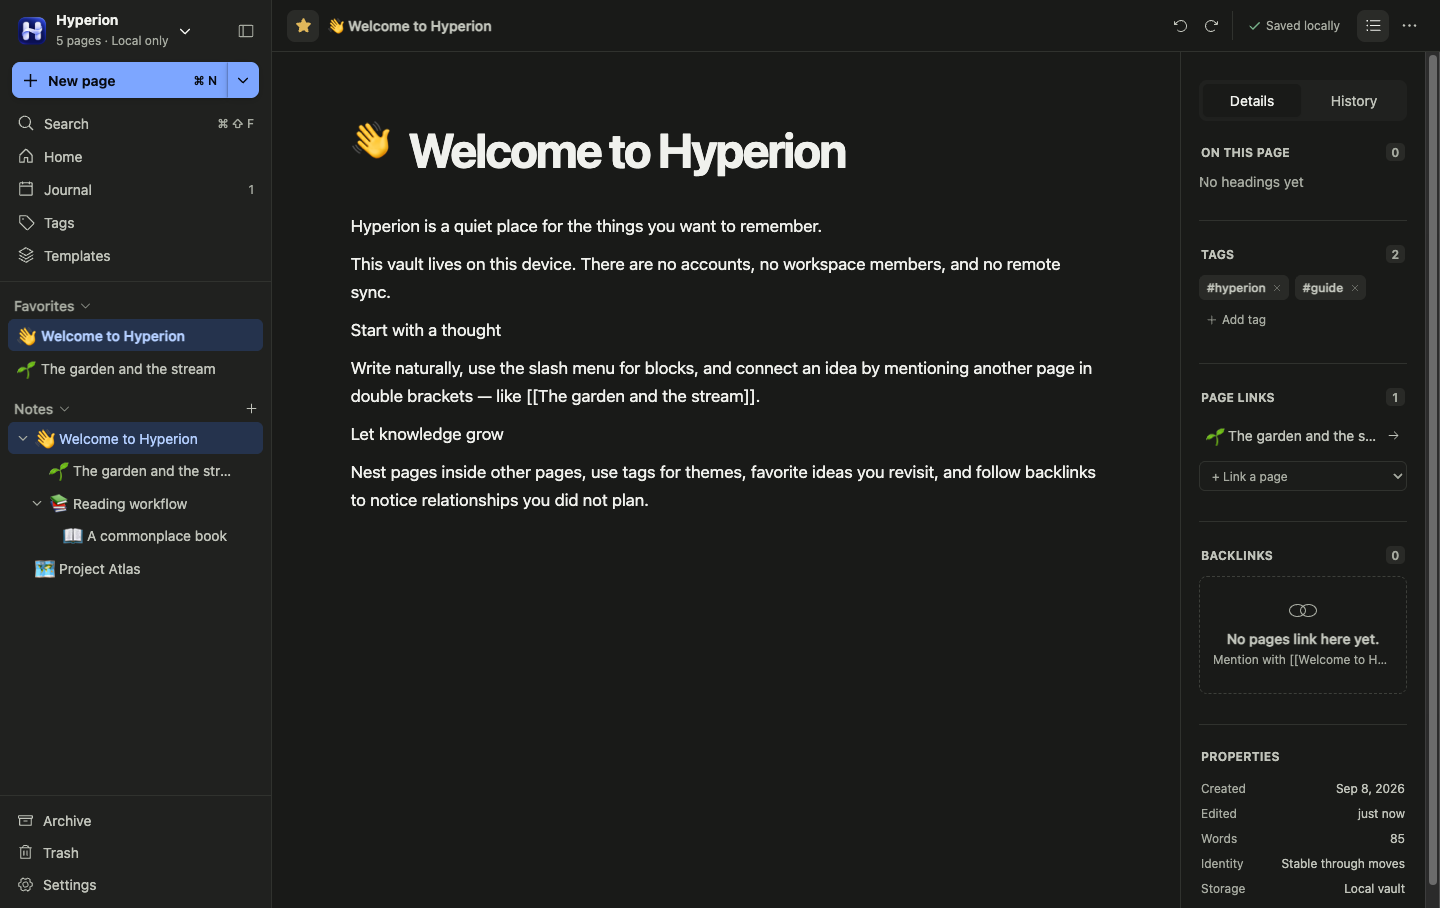
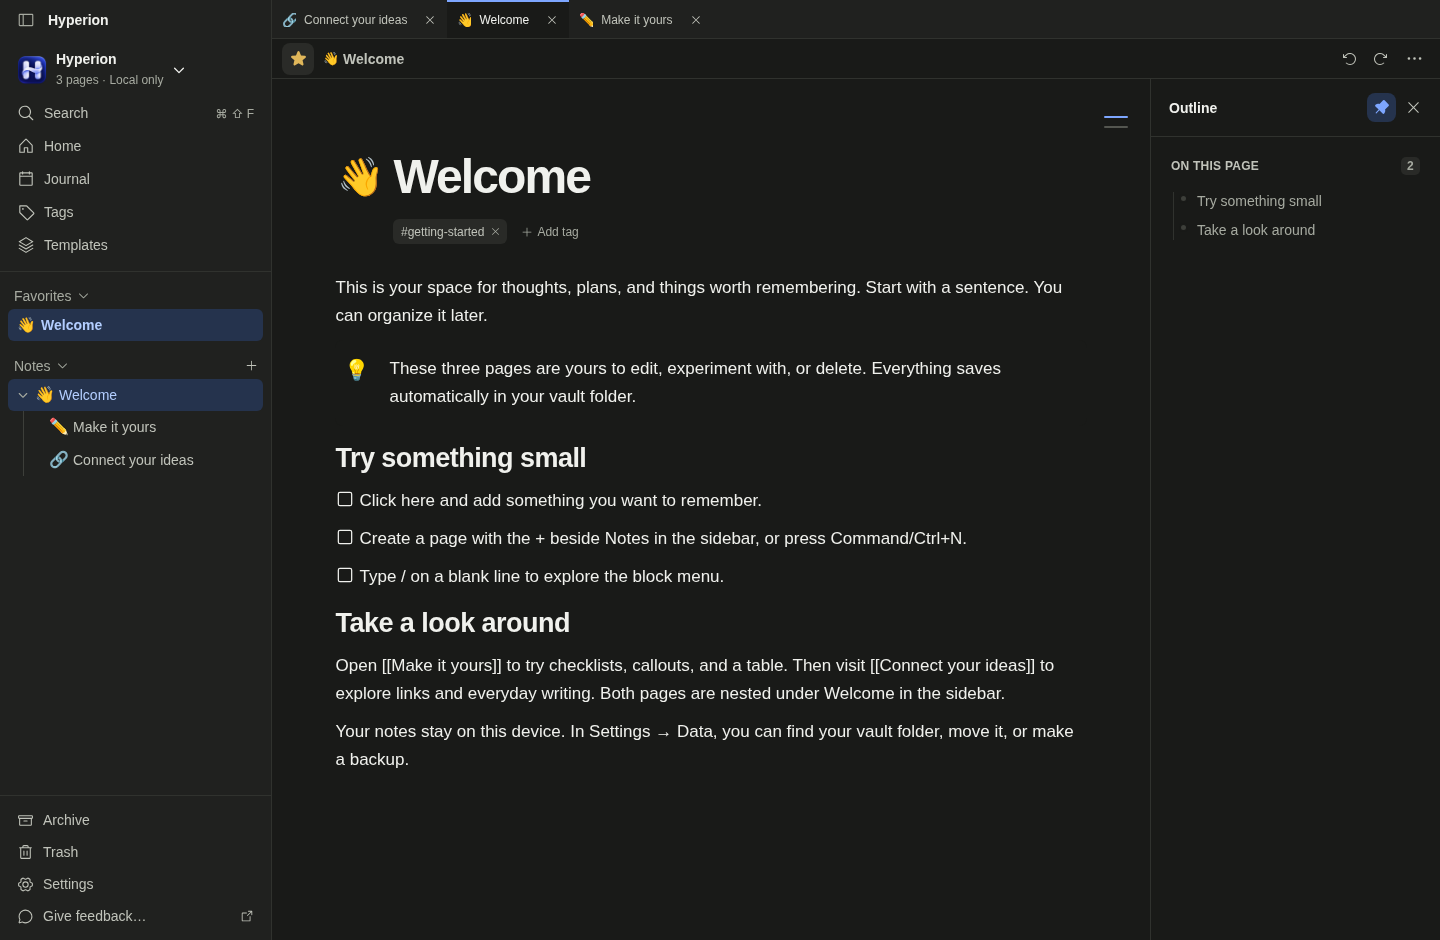
docs: prepare Hyperion 0.4.0 release (#55)

diff --git a/app/lib/starter-vault.ts b/app/lib/starter-vault.ts
@@ -31,7 +31,7 @@ export function makeStarterPages(vaultId: string): StarterPage[] {
         },
         {
           type: "todo",
-          text: "Create a page with the New page button in the sidebar.",
+          text: "Create a page with the + beside Notes in the sidebar, or press Command/Ctrl+N.",
         },
         {
           type: "todo",

diff --git a/docs/releases/0.4.0.md b/docs/releases/0.4.0.md
@@ -1,0 +1,263 @@
+# Hyperion 0.4.0 release preparation
+
+Prepared on 2026-10-08. This is the review handoff for the proposed release;
+0.4.0 has not been versioned or published.
+
+## Candidate and version
+
+- Published baseline: [v0.3.0](https://github.com/alextac98/hyperion/releases/tag/v0.3.0),
+  published 2026-09-23, commit `a790bbd6c8c54e1d717b028a224d59eff8d36751`.
+  The GitHub latest-release endpoint and release list agree on this baseline.
+- Candidate: `e3429479e0306896e124842a75b5e14756ba29f4`, matching fetched
+  `origin/main` when preparation began. The baseline comparison contains 13
+  commits and 137 changed files.
+- Preparation branch: `t3code/prepare-0-4-0-release`, targeting `main`.
+  No open preparation PR existed when checked.
+- Preparation changes beyond the candidate SHA: this report; a README correction
+  for the removed template picker; the starter guide's correction for the removed
+  sidebar New page button; a refreshed README screenshot and description; and
+  release-skill instructions to refresh that screenshot after significant UI
+  changes. The guide change affects newly created starter pages and does not
+  rewrite existing pages.
+- Published and current package versions are both `0.3.0`. Proposed version:
+  **0.4.0**, using **Version → minor** once the preparation is reviewed and merged.
+  No duplicate/newer published version or existing `v0.4.0` tag was found.
+  No version file has been edited and no workflow has been dispatched.
+
+For this `0.x` release, use minor increments for feature sets and user workflow
+changes, and patches for compatible fixes. This choice does not promise that
+different `0.x` binaries are interchangeable. The new features justify the minor
+bump, and the workflow changes and downgrade limits are called out below.
+
+## Release notes
+
+### Features
+
+- **Tabs and split panes:** open pages, templates, and library views in tabs;
+  reorder them, split the workspace, move tabs between panes, and drag a sidebar
+  page into a pane. Restore the primary workspace's tabs and layout per vault,
+  retaining editor state and independent scrolling. Command/Ctrl+T opens Home,
+  Command/Ctrl+W closes a tab, Ctrl+Tab switches tabs, and F6 switches panes.
+  [#34](https://github.com/alextac98/hyperion/pull/34),
+  [#35](https://github.com/alextac98/hyperion/pull/35).
+- **Native page windows:** drag a page or template tab outside the window, or
+  choose Move to new window. Move it back to the primary or another page window
+  through a tab strip, or use Move to main window. Edits and titles synchronize
+  across windows. Each page window stays with its original vault; closing the
+  primary saves and closes its page windows.
+  [#51](https://github.com/alextac98/hyperion/pull/51).
+- **Meeting blocks:** insert `/meeting` for rich notes, a date and title, microphone
+  recording or audio import, playback/download, and pasted or imported transcripts.
+  Recordings persist in chunks and survive page navigation; interrupted recordings
+  expose their saved audio. Configure the microphone and default meeting tab in
+  Settings → Blocks. Automatic transcription and AI summaries are unavailable.
+  [#37](https://github.com/alextac98/hyperion/pull/37).
+- **Editable columns and block actions:** insert `/columns` for two to four columns
+  containing ordinary rich blocks. Reorder columns with the grip, action menu, or
+  Alt+Left/Right. Remove a column while keeping its content, or unwrap the layout
+  in reading order. The block grip offers Move up/down and Delete block, with
+  keyboard navigation and undo/redo. Narrow layouts stack columns.
+  [#46](https://github.com/alextac98/hyperion/pull/46),
+  [#50](https://github.com/alextac98/hyperion/pull/50).
+- **Page context and toolbars:** each tab has its own toolbar; tags sit under the
+  title. Open Outline, Connections, Version history, or Page properties from the
+  page menu, and pin context across page changes. The mini outline follows the
+  current heading and supports hover or keyboard navigation. Native controls and
+  sidebar controls share the themed header.
+  [#40](https://github.com/alextac98/hyperion/pull/40),
+  [#54](https://github.com/alextac98/hyperion/pull/54).
+- **Feedback shortcuts:** open a GitHub report from setup, the sidebar, or the
+  page context menu. The report includes app version, OS, and architecture;
+  submitting a public issue requires a GitHub account.
+  [#52](https://github.com/alextac98/hyperion/pull/52).
+
+### Fixes
+
+- Route copy, cut, and paste to the focused editor or native field, preserving
+  clipboard behavior across retained tabs and read-only history.
+  [#47](https://github.com/alextac98/hyperion/pull/47).
+- Keep the block grip stationary on hover and dismiss its action menu on dragging.
+  Preserve nested content, formatting, assets, and undo boundaries when moving or
+  unwrapping blocks. [#46](https://github.com/alextac98/hyperion/pull/46),
+  [#50](https://github.com/alextac98/hyperion/pull/50).
+- Select a restored page or copy after reload while preserving other tabs and pane
+  layouts. Keep rename aliases and vault menus synchronized across windows, and
+  retain the source tab when transfer or destination startup fails.
+  [#50](https://github.com/alextac98/hyperion/pull/50),
+  [#51](https://github.com/alextac98/hyperion/pull/51).
+- Align the page icon with responsive titles, stabilize fractional-size workspace
+  layout at non-default zoom, and defer BlockSuite virtual padding updates to avoid
+  resize loops. [#33](https://github.com/alextac98/hyperion/pull/33),
+  [#51](https://github.com/alextac98/hyperion/pull/51),
+  [#54](https://github.com/alextac98/hyperion/pull/54).
+
+### Compatibility and upgrade changes
+
+- The always-open details sidebar and its Settings toggle have been replaced by
+  optional page context. Use the page menu and Pin page context to retain a drawer.
+  Existing `showDetails` preference data remains in exports for compatibility.
+- The sidebar New page button and separate template picker have been removed.
+  Use **+ beside Notes**, **Command/Ctrl+N**, or a page's child-page action to create
+  a page. Use the Templates view to create from a chosen template; default page and
+  journal templates remain configurable in Settings.
+- Page-window sessions survive window reload; a full app restart restores the
+  primary session and does not recreate detached windows.
+- Permanent deletion, moving vault storage, and replacing a page in place require
+  closing other windows showing that vault. Failed saves keep windows open.
+- No SQLite schema upgrade is introduced relative to 0.3.0: database version stays
+  **4**, document version **1**, and portable bundle version **9**. Older supported
+  databases still follow the existing migrations. There is no new content removal
+  in this release. Legacy prototype meeting notes are converted to ordinary rich
+  note children, preserving their literal text and existing children; regression
+  cases verify idempotence and leave invalid/future blocks intact.
+
+### Internal and development changes
+
+Development profiles and data now live in each worktree's `.hyperion-dev/`, and a
+development-only blueprint identifies the UI. Previous global development folders
+remain in place and are not automatically adopted. `pnpm dev:reset` removes the
+current worktree's development state after its instances stop. Browser development
+supports configured exact origins and optimizes the clipboard compressor.
+The lockfile adds Dockview and a BlockSuite virtual-padding patch; existing Electron,
+BlockSuite, SQLite schema, installer naming, and publication workflows are retained.
+PR CI now includes the full desktop integration and native window suites with
+failure screenshots. [#38](https://github.com/alextac98/hyperion/pull/38),
+[#43](https://github.com/alextac98/hyperion/pull/43),
+[#47](https://github.com/alextac98/hyperion/pull/47),
+[#50](https://github.com/alextac98/hyperion/pull/50),
+[#54](https://github.com/alextac98/hyperion/pull/54).
+
+## Validation
+
+Local environment: Fedora 43, Linux x64, Node `22.22.2` (within the manifest's
+supported range), pnpm `12.4.0`, Electron `43.4.0`, and an isolated Xvfb display
+at 2300×1080×24. CI uses Ubuntu 24.04 and Node `24.21.0`; it must validate the
+eventual preparation and version commits. All desktop tests use synthetic fixtures
+or temporary profiles and data directories. No personal vault was opened.
+
+| Command/check                                                                                                        | Result                                                                                                                                                                                                                                   |
+| -------------------------------------------------------------------------------------------------------------------- | ---------------------------------------------------------------------------------------------------------------------------------------------------------------------------------------------------------------------------------------- |
+| `pnpm install --frozen-lockfile`                                                                                     | Passed with the pinned package manager; no lockfile changes.                                                                                                                                                                             |
+| `pnpm lint`                                                                                                          | Passed on the original candidate and again after the guidance corrections.                                                                                                                                                               |
+| `pnpm test`                                                                                                          | Passed on the original candidate and final rerun: 45 app + 58 desktop/data + 64 other tests, 167 total each time, zero failures or skips.                                                                                                |
+| `pnpm check:desktop`                                                                                                 | Passed on the original candidate and final rerun.                                                                                                                                                                                        |
+| `DISPLAY=:0 pnpm test:integration`                                                                                   | Passed: runner failure regression, screenshots, editor save/history/restore/import, built and development clipboard, blocks, block actions, columns, meetings, vault setup, and feedback.                                                |
+| `DISPLAY=:0 node scripts/run-electron-test.mjs tests/window-smoke.mjs`                                               | Passed: detachment/return, transfers and cancellation, concurrent edits, title/alias synchronization, vault/backup isolation, rejected destructive operations, failed-save/acknowledgement handling, and save on primary close/app quit. |
+| `DISPLAY=:0 pnpm test:updates`                                                                                       | Passed: available, progress, error, retry, ready, and Settings UI.                                                                                                                                                                       |
+| `DISPLAY=:0 pnpm test:development`                                                                                   | Passed: two integration tests for three isolated worktrees and launcher shutdown.                                                                                                                                                        |
+| `node scripts/build-release.mjs x64`                                                                                 | Passed originally and after the final rebuild: Linux x64 AppImage and packaged runtime dependency check.                                                                                                                                 |
+| Packaged 0.3.0 → candidate → reopen                                                                                  | Passed with disposable data, then passed again with the rebuilt final candidate.                                                                                                                                                         |
+| `pnpm exec prettier --check README.md docs/releases/0.4.0.md .agents/skills/release/SKILL.md` and `git diff --check` | Passed after formatting the report and skill update.                                                                                                                                                                                     |
+
+The migration suite is included in the 58 desktop/data tests, and is not counted
+twice. Its 13 cases preserve the frozen prototype-v0, desktop-v1, and desktop-v4
+contracts and fixtures. They exercise skipped-version upgrades, rich page/template
+documents, hierarchy/links/preferences, blob bytes, original encoded history,
+complete pre-migration backups, integrity and foreign keys, idempotent reopening,
+late failure rollback and retry, backup failure before writes, and rejection of
+newer schemas. Version-2/3 derived cases cover the existing retirement/date
+transformations and corruption failure paths.
+
+Focused block tests cover meeting-note conversion, unknown/future content,
+recording assets and history, bounded audio transfers and failed-chunk retry.
+Native meeting tests exercise real MediaRecorder with synthetic microphone input,
+audio/transcript imports, playback/seek, rich editing, navigation, reopening and
+interrupted-recording recovery. Native column tests cover editing, preserving rich
+content/IDs, removal and unwrapping, undo/redo, drag boundaries and read-only history.
+
+For the packaged experiment, the published Linux 0.3.0 AppImage was downloaded
+through GitHub and matched its published SHA-256:
[1 lines of base64/hex data omitted]
+Its extracted executable created a synthetic vault containing formatted Unicode
+text, an attachment, a named revision and a backup, then quit through the app's
+save barrier. The candidate's packaged executable opened the same disposable
+profile/data, exported it, quit, and reopened. Comparisons retained original
+records and preferences, decoded rich documents, attachment bytes/mappings and
+original revision payloads. Integrity, foreign-key and schema checks passed on
+the live database and six backups. Both binaries identify as packaged apps.
+
+The local candidate package intentionally still reports **0.3.0** because Version
+has not run. This experiment validates candidate application code and data
+compatibility; it does not validate final 0.4.0 installer metadata or updater
+delivery. The test driver uses the Electron main-process inspector and temporary
+profile/config/cache/data directories, without a live user profile.
+
+The final locally built `Hyperion-linux-x86_64.AppImage` has SHA-256
[1 lines of base64/hex data omitted]
+It includes the recorded candidate SHA plus the starter-guide correction.
+
+Local logs, driver and disposable exports are under
+`/tmp/hyperion-release-0.4.0-nmJURm/`. These are session evidence, not published
+release assets. The guide correction changes one instructional string;
+the final required quality gate and package/upgrade reruns all passed. Other
+native results apply to the candidate SHA above. A host check before opening the
+preparation PR still found `main` at that SHA.
+
+The README screenshot was captured from that final packaged Linux x64 candidate
+at 1440 × 940 in dark mode, using a separate disposable profile and the three
+default starter pages. It shows the current workspace tabs, sidebar, page toolbar,
+and pinned outline. The saved PNG was visually inspected for readable text and
+the absence of transient menus, dialogs, loading states, and errors. The README
+description now matches the image, and the release skill requires this comparison
+and refresh when significant UI changes make the screenshot outdated.
+
+## Risks, recovery and remaining checks
+
+The main affected paths are [window lifecycle and vault scoping](../../electron/main.ts),
+[multi-window document updates](../../app/platform/sqlite-editor-storage.ts),
+[save/import barriers](../../app/lib/data-operations.ts),
+[meeting recording](../../app/lib/meeting-recording.ts),
+[column transforms](../../app/editor/blocks/columns.ts), and the
+[macOS microphone packaging metadata](../../electron-builder.yml).
+The tests above cover ordinary and injected failure paths, and do not establish
+that every failure is impossible.
+
+- No unresolved application test failure was found. The expected error messages
+  in native tests come from deliberate failed saves, unavailable folders/browser
+  handoffs, and rejected IPC/operations.
+- Linux x64 packaging and its extracted executable were exercised locally.
+  macOS arm64, Windows x64 and Linux arm64 builds/launches were not available on
+  this machine. macOS microphone permission prompts, physical microphone devices,
+  signing/notarization and OS compositor behavior remain platform checks.
+- The update preview verifies simulated UI/state only. Real downloads, signatures,
+  differential updates, binary replacement and restart into the final 0.4.0 build
+  remain untested. Extracted AppImage execution also does not exercise FUSE mounting
+  or desktop installer integration.
+- Power loss, full-disk storage failures, and all possible block types were not
+  simulated. New meeting/column content has preservation coverage, but this report
+  does not certify every concurrent edit/import/recording combination.
+
+Before upgrading, create a backup from Settings → Data and keep a complete vault
+export where practical. Older-schema startup makes a verified pre-migration backup
+before conversion, and failures roll back the transaction. An existing schema-4
+vault does not receive a new migration backup solely for 0.4.0; startup's automatic
+backups and explicit backups are the recovery paths. Restore a verified backup
+into a separate folder through Settings → Data, preserving the current vault.
+History can restore a page as a copy and recover deleted attachment bytes.
+
+The unchanged schema number is not a downgrade guarantee: 0.3.0 lacks the new
+block editors and workspace behavior. Downgrade and preservation of all new
+content by older binaries were not tested. To return to pre-upgrade state, retain
+the current vault and restore a verified pre-upgrade backup into a separate folder
+with an appropriate older binary. Do not delete the current vault as rollback.
+
+## Release handoff
+
+Proposed PR title: **docs: prepare Hyperion 0.4.0 release**.
+The PR body should use this report's candidate, version, release notes, validation,
+risks and handoff. The reviewable diff includes the report, two guidance
+corrections, refreshed screenshot and description, and release-skill update.
+
+1. Review and merge the preparation PR through the normal repository process. Check
+   both PR jobs on its final commit. Review and appropriately test any intervening
+   application changes; this evidence is tied to the recorded candidate.
+2. When version preparation is requested, run **Version** on `main` with **minor**
+   exactly once, after checking the package is still 0.3.0. It prepares/tests/pushes
+   the 0.4.0 version commit. If it is already 0.4.0, do not bump again.
+3. Check the final `main` SHA, version and successful checks. When publication is
+   requested, run **Release** on `main`; record its captured SHA and wait for quality,
+   all four platform builds and publication. Never hand-create a release/tag.
+4. Verify published installer links, checksums and update manifests, and smoke-test
+   the published installers and previous-release upgrades with disposable data.
+   Confirm macOS microphone permissions and real updater installation on supported
+   platforms. Follow [the release guide](../developer/release.md) for failed runs.

diff --git a/.agents/skills/release/SKILL.md b/.agents/skills/release/SKILL.md
@@ -43,6 +43,7 @@ current version numbers, schema versions, or platform lists into this skill.
   `pnpm test` already includes the migration suite through `test:desktop`.
   Use `pnpm test:migrations` for targeted diagnosis or reruns after migration
   changes, rather than counting it as independent extra coverage.
+
 - Inspect migration assertions as well as their exit status. Verify older
   supported schemas and skipped-version upgrades, preservation of documents,
   attachments and history, pre-upgrade backups, integrity/foreign-key checks,
@@ -78,6 +79,16 @@ just commit titles. Produce user-facing release notes grouped into features,
 fixes, breaking changes, and upgrade/data changes as applicable. Separate
 internal maintenance from user-visible behavior. Cite relevant PRs or files,
 explain removed behavior and required user actions, and identify known issues.
+
+Compare the README screenshot with the candidate's interface. When significant
+UI changes make it outdated (for example, navigation, tabs, toolbars, or page
+layout), refresh the referenced image during release preparation. Capture the
+running candidate with synthetic notes in a disposable vault/profile; never use
+personal data or fabricate UI. Inspect the image for readable text, representative
+content, and transient menus, dialogs, loading states, or errors. Update the
+README image description if needed, and include the screenshot in the preparation
+diff and validation evidence. Keep the current image when it still represents the
+interface accurately.
 
 Summarize release risk with concrete evidence: affected paths, tests that cover
 them, and remaining gaps (for example, power loss or unavailable platform tests).

diff --git a/README.md b/README.md
@@ -1,6 +1,6 @@
 # <img src="public/brand/hyperion-icon-128.png" alt="" width="40" height="40" align="absmiddle"> Hyperion
 
-![Hyperion desktop app showing the welcome page, note sidebar, and page details in dark mode](docs/assets/hyperion-screenshot.png)
+![Hyperion desktop app showing the Welcome starter page, workspace tabs, note sidebar, and pinned outline in dark mode](docs/assets/hyperion-screenshot.png)
 
 Hyperion is a local-first personal knowledge base for ideas, notes, meeting
 transcriptions, and more. It ships as an Electron desktop app with a React interface and a consistent
@@ -44,7 +44,7 @@ bundled Chromium runtime. SQLite stores all knowledge data locally.
   optional pins, and page properties and version history in the page menu
 - Sortable/filterable table and card views, favorites, journal, search,
   recoverable archives, and trash
-- Vault-scoped page templates with a searchable picker, direct template editing,
+- Vault-scoped page templates with direct editing and creation from the Templates view,
   and independently configurable defaults for new pages and journal entries
 - Working vault, editor, appearance, and data settings
 - Workspace tabs open or focus pages, templates, and library views, with reordering,
